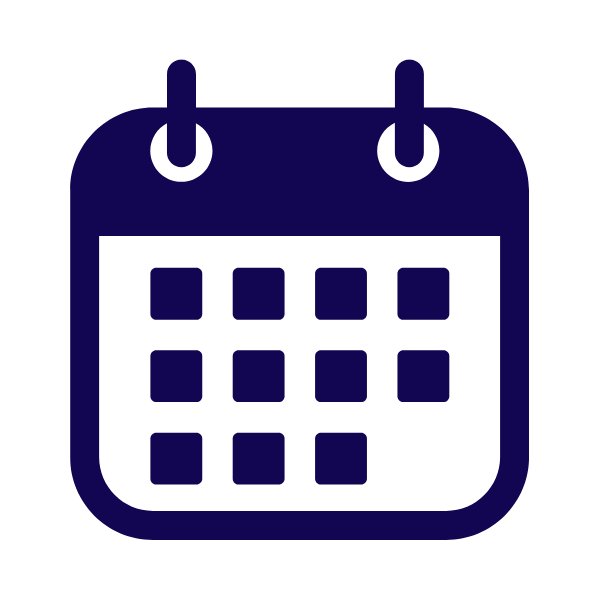
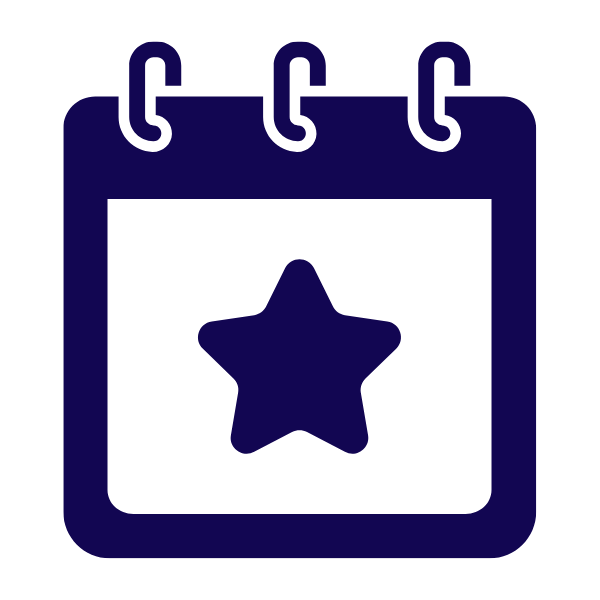
Adding the attendance management into the admin side

Changed region(s): [[0.09, 0.06, 0.9, 0.93]]

diff --git a/CBC Hagonoy System Admin/src/pages/main_dashboard/Main_Dashboard.jsx b/CBC Hagonoy System Admin/src/pages/main_dashboard/Main_Dashboard.jsx
@@ -23,6 +23,8 @@ import {
   RM_selected,
   AL_notSelected,
   AL_selected,
+  ATM_notSelected,
+  ATM_selected,
 } from "../../assets/Images";
 
 // Lazy-loaded components
@@ -46,6 +48,9 @@ const Communication_Tools = React.lazy(() =>
 );
 const Announcement_List = React.lazy(() =>
   import("../announcement_list/Announcement_List")
+);
+const Attendance_Management = React.lazy(() =>
+  import("../attendance_form_management/Attendance_Management")
 );
 
 function Main_Dashboard() {
@@ -150,6 +155,16 @@ function Main_Dashboard() {
             >
               Announcement Lists
             </Link>
+
+            <Link
+              to="/attendance-management"
+              className={`contents_dashboard ${
+                isActive === "/attendance-management" ? "active" : ""
+              }`}
+              onClick={() => setIsActive("/attendance-management")}
+            >
+              Attendance Management
+            </Link>
           </div>
         </div>
 
@@ -186,6 +201,10 @@ function Main_Dashboard() {
               <Route
                 path="/announcement-records"
                 element={<Announcement_List />}
+              />
+              <Route
+                path="/attendance-management"
+                element={<Attendance_Management />}
               />
             </Routes>
           </Suspense>
@@ -320,6 +339,24 @@ function Main_Dashboard() {
                 className="icon"
               />
               <p className="dashboard_label">Announcement Lists</p>
+            </Link>
+            <Link
+              className={`dashboard_icon ${
+                isActive === "/attendance-management" ? "active" : ""
+              }`}
+              to="/attendance-management"
+              onClick={() => setIsActive("/attendance-management")}
+            >
+              <img
+                src={
+                  isActive === "/attendance-management"
+                    ? ATM_selected
+                    : ATM_notSelected
+                }
+                alt="Audit Icon"
+                className="icon"
+              />
+              <p className="dashboard_label">Attendance Management</p>
             </Link>
           </div>
         )}

diff --git a/CBC Hagonoy System Admin/src/assets/Images.jsx b/CBC Hagonoy System Admin/src/assets/Images.jsx
@@ -31,6 +31,8 @@ import UM_selected from "./Dashboard_Icons/UM_selected.png";
 import CT_selected from "./Dashboard_Icons/CT_selected.png";
 import ATL_selected from "./Dashboard_Icons/ATL_selected.png";
 import AL_selected from "./Dashboard_Icons/AL_selected.png";
+import ATM_selected from "./Dashboard_Icons/ATM_selected.png";
+import ATM_notSelected from "./Dashboard_Icons/ATM_notSelected.png";
 import xlsx_icon from "../assets/icons/xlsx_icon.png";
 
 export {
@@ -68,4 +70,6 @@ export {
   CT_selected,
   ATL_selected,
   AL_selected,
+  ATM_notSelected,
+  ATM_selected,
 };

diff --git a/CBC Hagonoy System Admin/src/pages/main_dashboard/Main_Dashboard.css b/CBC Hagonoy System Admin/src/pages/main_dashboard/Main_Dashboard.css
@@ -33,7 +33,7 @@
 .dashboard_title_left {
   display: flex;
   flex-direction: row;
-  height: 10vh;
+  height: 5vh;
   align-items: center;
   gap: 5.5rem;
   color: #28282b;
@@ -87,7 +87,8 @@
   display: flex;
   flex-direction: column;
   align-items: start;
-  margin-top: 1.125rem;
+  height: 82vh;
+  margin-top: 0rem;
   transition: opacity 0.3s ease-in-out;
 }
 
@@ -145,7 +146,9 @@
 
 .icons_container_admin {
   position: absolute;
-  top: 21%;
+  top: 20%;
+  height: 75vh;
+  overflow: scroll;
   left: 1.5%;
   display: flex;
   flex-direction: column;

diff --git a/CBC Hagonoy System Admin/src/pages/attendance_form_management/Attendance_Management.jsx b/CBC Hagonoy System Admin/src/pages/attendance_form_management/Attendance_Management.jsx
@@ -1,0 +1,9 @@
+import "./Attendance_Management.css";
+
+export default function Attendance_Management() {
+  return (
+    <div className="Attendance__mainContainer">
+      <div className="Attendance__headerContainer"></div>
+    </div>
+  );
+}
